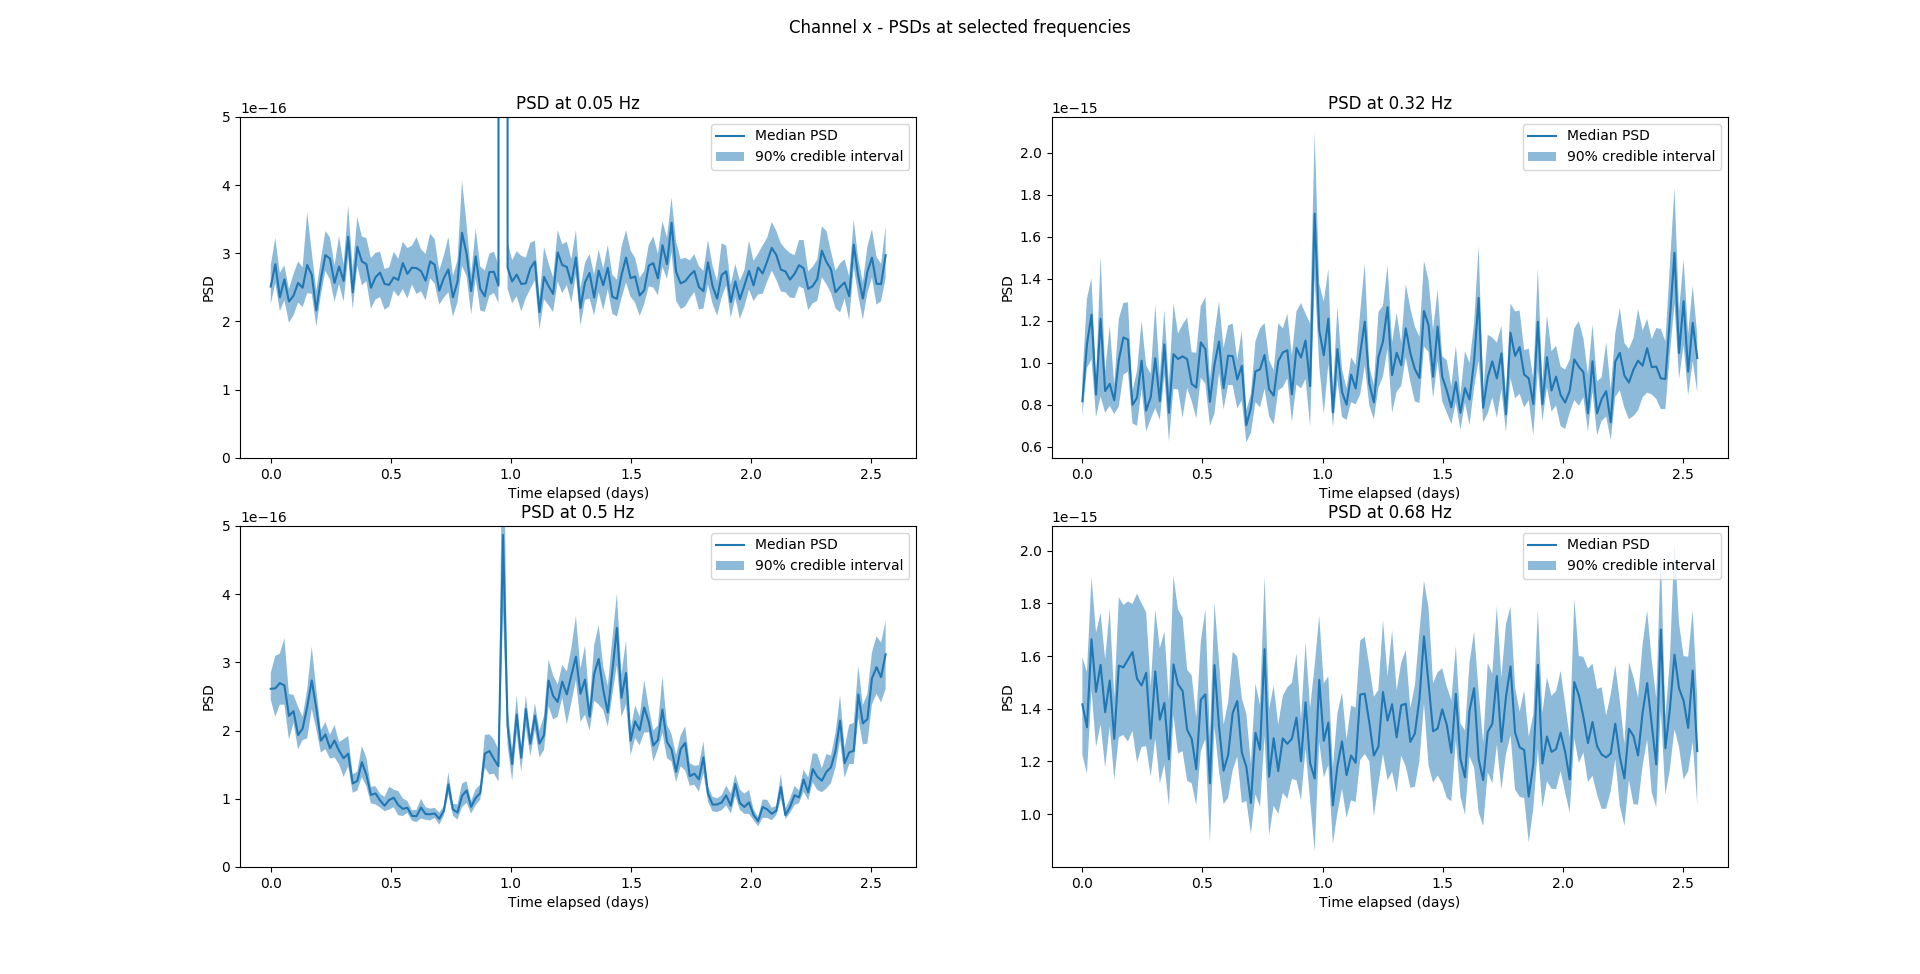
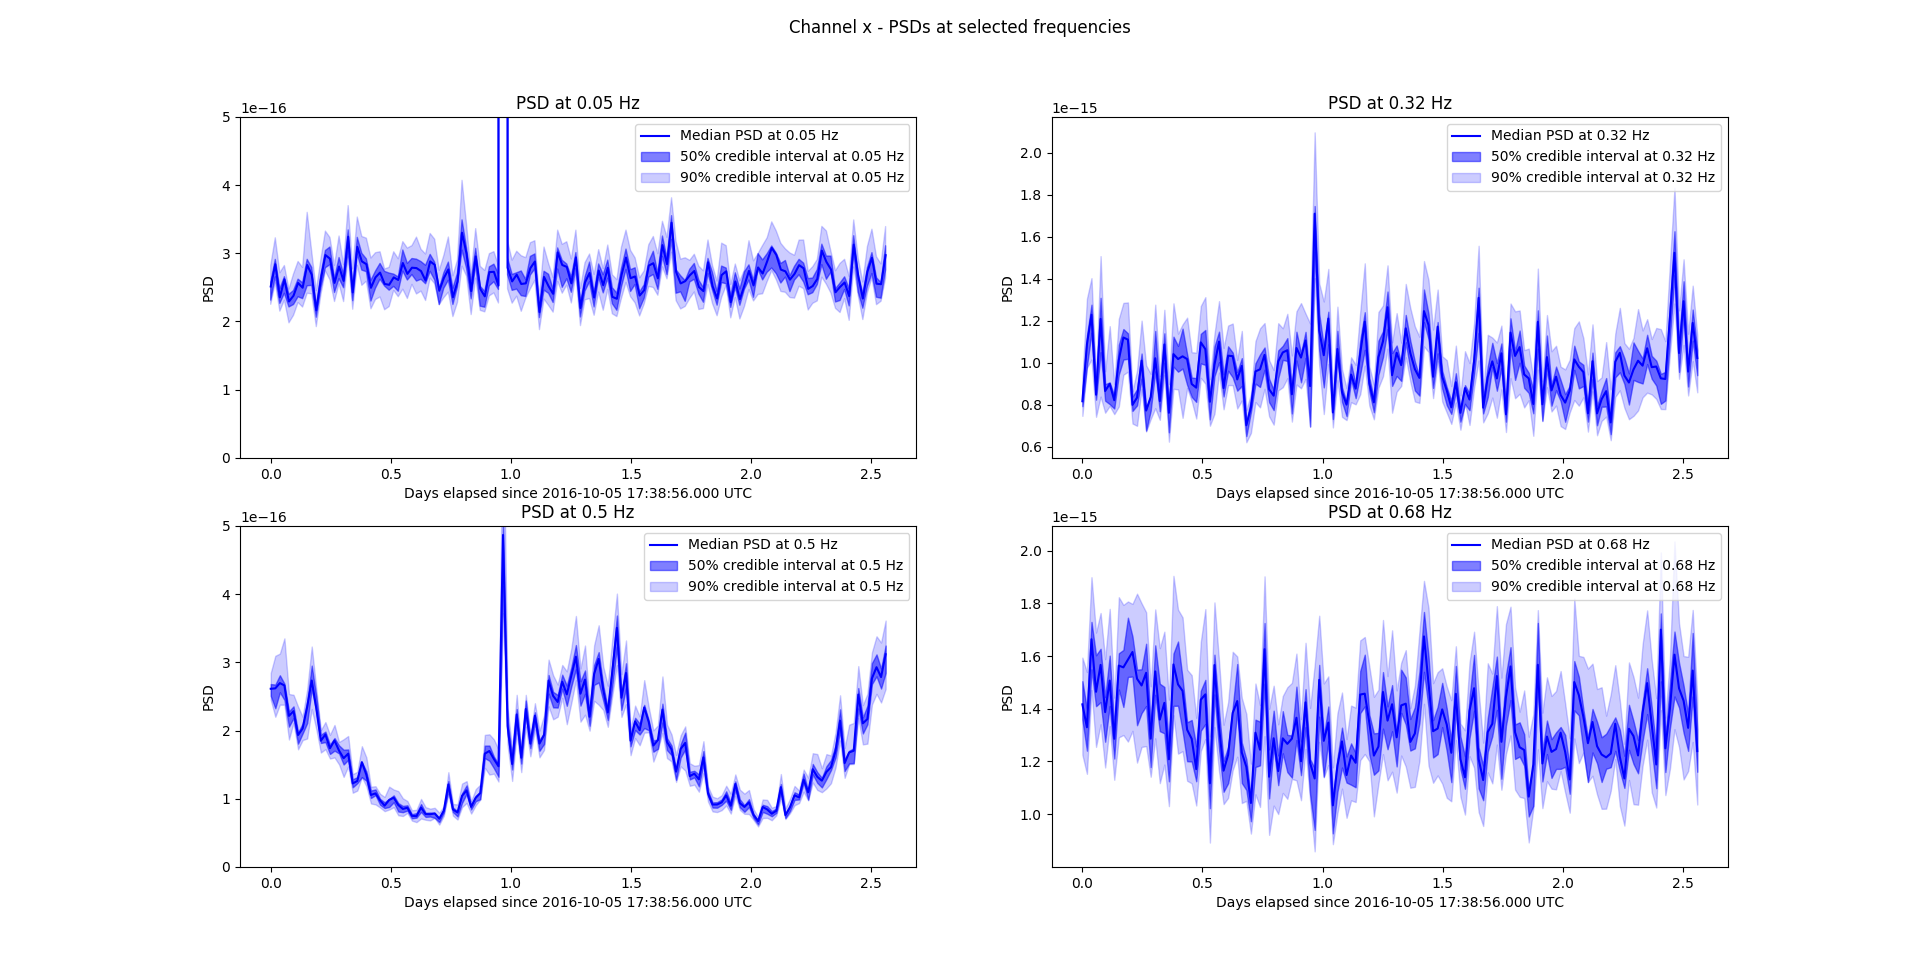
added utc labels, updated plots

diff --git a/time_variance.py b/time_variance.py
@@ -5,6 +5,7 @@ import matplotlib.colors
 import numpy as np
 import os
 import glob
+from astropy.time import Time
 
 # TODO set make auto-scaling color bar that excludes extreme values
 # TODO look into lambdas for slice function
@@ -14,6 +15,13 @@ def get_times(run):
     time_dirs = sorted(glob.glob(os.path.join('data', run, run + '*')))
     # Array of run times
     return np.array([int(time_dir[-10:]) for time_dir in time_dirs])
+    
+def get_days_elapsed(gps_times):
+    return (gps_times - gps_times[0]) / (60 * 60 * 24)
+    
+def get_iso_date(gps_int):
+    gps_time = Time(gps_int, format='gps')
+    return Time(gps_time, format='iso')
 
 def import_time(time_dir):
     # Grab the files with a single-digit index first to sort them correctly
@@ -28,11 +36,10 @@ def import_time(time_dir):
     # Strip rows of 2s
     return time_data[:,np.min(time_data!=2., axis=(0,2))]
     
-def summarize_psd(time_data, channel, alpha):
+def summarize_psd(time_data, channel):
     # Parameters:
     #  run: a 3D array of all PSDs for a single time
     #  channel: int from 1-6, the channel index we're interested in
-    #  alpha: tuple of percent credible intervals
     # Returns:
     #  summary_psd: a 2D array with the mean PSD function and credible intervals
     #  | frequency | median | mean - CI1 | mean + CI1 | mean - CI2 | ...
@@ -45,17 +52,18 @@ def summarize_psd(time_data, channel, alpha):
     # Credible intervals columns
     # Uses the highest posterior density (HPD), or minimum width Bayesian CI
     # pymc3 uses alpha to mean Type I error probability, so adjust
+    alpha = (0.5, 0.9)
     credible_intervals = [hpd(chan_data, alpha=1-a) for a in alpha]
     return np.hstack((frequencies, medians) + tuple(credible_intervals))
     
-def summarize_run(run, channel, alpha):
+def summarize_run(run, channel):
     # Get a list of the time directories
     time_dirs = sorted(glob.glob(os.path.join('data', run, run + '*/')))
     # Pull PSD files from target run
     print('Importing ' + run + '...')
     # List of summary PSDs (each a 2D array), one for each time
     # Takes a long time
-    summaries = [summarize_psd(import_time(d),channel,alpha) for d in time_dirs]
+    summaries = [summarize_psd(import_time(d),channel) for d in time_dirs]
     print('Adjusting arrays...')
     # Make all arrays the same length and turn into 3D array
     rows = min([summary.shape[0] for summary in summaries])
@@ -106,7 +114,7 @@ def shiftedColorMap(cmap, start=0, midpoint=0.5, stop=1.0, name='shiftedcmap'):
     plt.register_cmap(cmap=newcmap)
     return newcmap
 
-def plot_colormap(fig, ax, psd, cmap, vlims,
+def plot_colormap(fig, ax, psd, gps_times, cmap, vlims, 
         logfreq=True, cbar_label=None, neutral=None):
     '''
     Function to plot the colormap of a PSD with frequency on the y-axis and
@@ -136,17 +144,21 @@ def plot_colormap(fig, ax, psd, cmap, vlims,
         origin='lower',
         vmin=vlims[0],
         vmax=vlims[1],
-        extent=[min(delta_t_days), max(delta_t_days), 0., 1.]
+        extent=[
+            get_days_elapsed(gps_times)[0], 
+            get_days_elapsed(gps_times)[-1], 
+            0., 1.
+        ]
     )
     if logfreq:
         ax.set_yscale('log')
         ax.set_ylim(bottom=1e-3, top=1.)
-    ax.set_xlabel('Time elapsed (days)')
+    ax.set_xlabel('Days elapsed since ' + str(get_iso_date(gps_times[0])) + ' UTC')
     ax.set_ylabel('Frequency (Hz)')
     cbar = fig.colorbar(im, ax=ax)
     cbar.set_label(cbar_label, labelpad=15, rotation=270)
     
-def plot_freq_slice(fig, ax, freq, times, summaries, cred, ylim=None):
+def plot_freq_slice(fig, ax, freq, gps_times, summaries, color, ylim=None):
     # Plots time vs PSD at a specific frequency
     # Parameters:
     #  fig, ax: the figure and axes of the plot
@@ -156,21 +168,29 @@ def plot_freq_slice(fig, ax, freq, times, summaries, cred, ylim=None):
     freqs = summaries[0,:,0]
     # Get the index of the nearest frequency to the one requested
     freq_index = int(freq / (np.max(freqs) - np.min(freqs)) * freqs.shape[0])
-    ci_index = (2*alpha.index(cred)+2, 2*alpha.index(cred)+3)
-    ax.fill_between(times,
-        summaries[:,freq_index,ci_index[0]],
-        summaries[:,freq_index,ci_index[1]], 
+    days_elapsed = get_days_elapsed(gps_times)
+    ax.fill_between(days_elapsed,
+        summaries[:,freq_index,2],
+        summaries[:,freq_index,3], 
+        color=color,
         alpha=0.5,
-        label=str(int(100 * cred))+'% credible interval')
-    ax.plot(times, summaries[:,freq_index,1], label='Median PSD')
+        label='50% credible interval at ' + str(freq) + ' Hz')
+    ax.fill_between(days_elapsed,
+        summaries[:,freq_index,4],
+        summaries[:,freq_index,5],
+        color=color,
+        alpha=0.2,
+        label='90% credible interval at ' + str(freq) + ' Hz')
+    ax.plot(days_elapsed, summaries[:,freq_index,1], 
+        label='Median PSD at ' + str(freq) + ' Hz', color=color)
     ax.legend()
-    ax.set_xlabel('Time elapsed (days)')
+    ax.set_xlabel('Days elapsed since ' + str(get_iso_date(gps_times[0])) + ' UTC')
     if ylim:
         ax.set_ylim(ylim)
     ax.set_ylabel('PSD')
     ax.title.set_text('PSD at ' + str(freq) + ' Hz')
     
-def plot_time_slice(fig, ax, time, times, summaries, cred, 
+def plot_time_slice(fig, ax, day, gps_times, summaries, color, 
         logfreq=True, ylim=None, logpsd=False):
     # Plots frequency vs PSD at a specific time
     # Parameters:
@@ -182,15 +202,23 @@ def plot_time_slice(fig, ax, time, times, summaries, cred,
     #  logfreq: whether to plot frequency on a log scale
     #  ylim: optional y axis limits, tuple
     # Get the index of the nearest time to the one requested
-    time_index = int(time / np.max(times) * times.shape[0])
-    ci_index = (2*alpha.index(cred)+2, 2*alpha.index(cred)+3)
+    days_elapsed = get_days_elapsed(gps_times)
+    time_index = int(day / np.max(days_elapsed) * days_elapsed.shape[0])
     ax.fill_between(summaries[time_index,:,0], 
-        summaries[time_index,:,ci_index[0]], 
-        summaries[time_index,:,ci_index[1]], 
+        summaries[time_index,:,2], 
+        summaries[time_index,:,3],
+        color=color, 
         alpha=0.5,
-        label=str(int(100 * cred))+'% credible interval')
+        label='50% credible interval at ' + str(day) + ' days')
+    ax.fill_between(summaries[time_index,:,0], 
+        summaries[time_index,:,4], 
+        summaries[time_index,:,5],
+        color=color, 
+        alpha=0.1,
+        label='90% credible interval at ' + str(day) + ' days')
     ax.plot(summaries[time_index,:,0], summaries[time_index,:,1], 
-        label='Median PSD at ' + str(time) + ' days')
+        label='Median PSD at T+' + str(day) + ' days', 
+        color=color)
     ax.legend()
     ax.set_xlabel('Frequency (Hz)')
     if logfreq:
@@ -200,13 +228,11 @@ def plot_time_slice(fig, ax, time, times, summaries, cred,
     if logpsd:
         ax.set_yscale('log')
     ax.set_ylabel('PSD')
-    ax.title.set_text('PSD at ' + str(time) + ' days')
+    ax.title.set_text('PSD at ' + str(get_iso_date(gps_times[time_index])) + ' UTC')
 
 # The index of the channel we're interested in
-channel = 1
+channel = 2
 channels = ['freq', 'x', 'y', 'z', 'vx', 'vy', 'vz']
-# Credible intervals
-alpha = (0.5, 0.9)
 # Directories
 top_dir = os.getcwd()
 run = 'run_k'
@@ -227,7 +253,7 @@ if summary_file in glob.glob(os.path.join(summary_dir, '*')):
 else:
     print('No PSD summaries file found. Importing data files:')
     from pymc3.stats import hpd
-    summaries = summarize_run(run, channel, alpha)
+    summaries = summarize_run(run, channel)
     print('Writing to PSD summaries file...')
     np.save(summary_file, summaries)
     
@@ -240,9 +266,9 @@ fig, axs = plt.subplots(1, 2)
 fig.suptitle('Channel ' + channels[channel] + ' - median comparison')
 # Subplots
 axs[0].title.set_text('PSD(t) - PSD_median')
-plot_colormap(fig, axs[0], channel_intensity - median_psd,
+plot_colormap(fig, axs[0], channel_intensity - median_psd, times,
     cmap=cm.get_cmap('coolwarm'),
-    vlims=(-4e-16,4e-16),
+    vlims=(-1e-13,1e-13),
     logfreq=True,
     neutral=0.0,
     cbar_label='Absolute difference from reference PSD'
@@ -250,11 +276,12 @@ plot_colormap(fig, axs[0], channel_intensity - median_psd,
 axs[1].title.set_text('|PSD(t) - PSD_median| / PSD_median')
 plot_colormap(fig, axs[1], 
     np.abs(channel_intensity - median_psd) / median_psd,
+    times,
     cmap='PuRd',
-    vlims=(0,1),
+    vlims=(0,3),
     logfreq=True
 )
-#plt.show()
+plt.show()
 
 cred = 0.9
 
@@ -262,18 +289,19 @@ cred = 0.9
 fig, axs = plt.subplots(2,2)
 fig.suptitle('Channel ' + channels[channel]
     + ' - PSDs at selected frequencies')
-plot_freq_slice(fig, axs[0,0], 0.01, delta_t_days, summaries, cred, ylim=(0,1e-14))
-plot_freq_slice(fig, axs[0,1], 0.10, delta_t_days, summaries, cred, ylim=(1e-15,1e-14))
-plot_freq_slice(fig, axs[1,0], 0.50, delta_t_days, summaries, cred, ylim=(3e-13,5e-13))
-plot_freq_slice(fig, axs[1,1], 0.99, delta_t_days, summaries, cred)
+plot_freq_slice(fig, axs[0,0], 0.01, times, summaries, 'b', ylim=(0,1e-14))
+plot_freq_slice(fig, axs[0,1], 0.10, times, summaries, 'b', ylim=(1e-15, 1e-14))
+plot_freq_slice(fig, axs[1,0], 0.50, times, summaries, 'b', ylim=(2e-13,5e-13))
+plot_freq_slice(fig, axs[1,1], 0.99, times, summaries, 'b')
 #plt.show()
 
 # Time slice
 fig, axs = plt.subplots(1,1)
-fig.suptitle('Channel ' + channels[channel] + ' - PSDs at selected times')
-plot_time_slice(fig, axs, 0.65, delta_t_days, summaries, cred, logpsd=True)
-#plot_time_slice(fig, axs, 1.00, delta_t_days, summaries, cred)
-plot_time_slice(fig, axs, 1.35, delta_t_days, summaries, cred)
-#plot_time_slice(fig, axs, 1.70, delta_t_days, summaries, cred)
+fig.suptitle('Channel ' + channels[channel] + ' - PSDs at selected times since '
+    + str(get_iso_date(times[0])) + ' UTC')
+plot_time_slice(fig, axs, 0.30, times, summaries, 'b', logpsd=True)
+plot_time_slice(fig, axs, 0.62, times, summaries, 'g')
+plot_time_slice(fig, axs, 1.78, times, summaries, 'orange')
+plot_time_slice(fig, axs, 1.90, times, summaries, 'r')
 axs.title.set_text('')
-plt.show()
+#plt.show()
